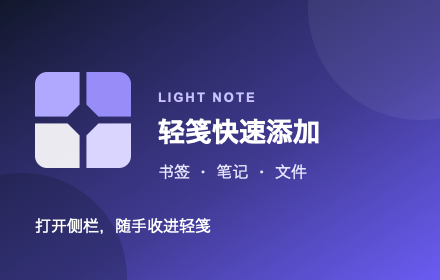
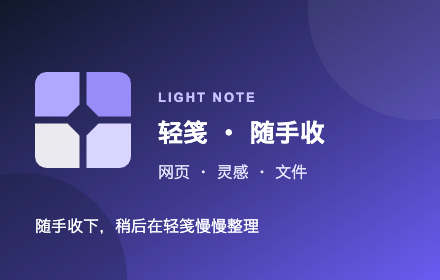
fix: 统一随手收扩展品牌名称

diff --git a/apps/web/src/extension/manifest.contract.test.ts b/apps/web/src/extension/manifest.contract.test.ts
@@ -5,6 +5,9 @@ import { describe, expect, it } from 'vitest';
 
 const readSource = (path: string) => readFileSync(resolve(process.cwd(), path), 'utf8');
 const manifest = JSON.parse(readSource('extension/manifest.json'));
+const zhManifestMessages = JSON.parse(readSource('extension/_locales/zh_CN/messages.json'));
+const enManifestMessages = JSON.parse(readSource('extension/_locales/en/messages.json'));
+const sidepanelSource = readSource('extension/sidepanel.html');
 const serviceWorkerSource = readSource('src/extension/service-worker.ts');
 const captureSource = readSource('src/extension/capture.ts');
 const appSource = readSource('src/extension/ExtensionApp.vue');
@@ -20,6 +23,12 @@ const operationIdempotencySource = readSource('src/extension/operationIdempotenc
 const pageTextImportSource = readSource('src/extension/pageTextImport.ts');
 const viteConfigSource = readSource('vite.extension.config.ts');
 const stylesSource = readSource('src/extension/styles.less');
+const zhLocaleSource = readSource('src/i18n/locales/zh-CN.ts');
+const enLocaleSource = readSource('src/i18n/locales/en-US.ts');
+const privacySource = readSource('public/legal/browser-extension-privacy.html');
+const storeListingSource = readSource('../../docs/browser-extension-store-listing.md');
+const storePromoSource = readSource('store-assets/chrome/promo-small-440x280.svg');
+const storeScreenshotBrandSource = readSource('store-assets/chrome/screenshot-brand-panel.svg');
 
 function extensionIdFromPublicKey(publicKey: string): string {
   const digest = crypto.createHash('sha256').update(Buffer.from(publicKey, 'base64')).digest().subarray(0, 16);
@@ -29,6 +38,31 @@ function extensionIdFromPublicKey(publicKey: string): string {
 }
 
 describe('浏览器插件 Manifest 与隐私边界', () => {
+  it('扩展包、运行界面、授权、隐私与商店素材统一使用正式中英文品牌', () => {
+    expect(manifest.name).toBe('__MSG_extensionName__');
+    expect(manifest.short_name).toBe('__MSG_extensionShortName__');
+    expect(manifest.description).toBe('__MSG_extensionDescription__');
+    expect(manifest.default_locale).toBe('zh_CN');
+    expect(manifest.action.default_title).toBe('__MSG_extensionActionTitle__');
+    expect(zhManifestMessages.extensionName.message).toBe('轻笺 · 随手收');
+    expect(zhManifestMessages.extensionShortName.message).toBe('轻笺');
+    expect(zhManifestMessages.extensionDescription.message).toBe(
+      '随手收下网页、灵感和文件，稍后在轻笺慢慢整理。',
+    );
+    expect(enManifestMessages.extensionName.message).toBe('Light Note · Quick Capture');
+    expect(enManifestMessages.extensionShortName.message).toBe('Light Note');
+    expect(sidepanelSource).toContain('<title>轻笺 · 随手收</title>');
+    expect(zhLocaleSource).toContain("title: '授权“轻笺 · 随手收”'");
+    expect(enLocaleSource).toContain("title: 'Authorize Light Note · Quick Capture'");
+    expect(privacySource).toContain('适用产品：轻笺 · 随手收');
+    expect(storeListingSource).toContain('中文名：`轻笺 · 随手收`');
+    expect(storeListingSource).toContain('英文名：`Light Note · Quick Capture`');
+    expect(storePromoSource).toContain('轻笺 · 随手收');
+    expect(storeScreenshotBrandSource).toContain('轻笺 · 随手收');
+    expect(viteConfigSource).toContain("'_locales/zh_CN/messages.json'");
+    expect(viteConfigSource).toContain("'_locales/en/messages.json'");
+  });
+
   it('使用 MV3 原生 Side Panel，并把网页正文访问声明为按站点可选权限', () => {
     expect(manifest.manifest_version).toBe(3);
     expect(manifest.permissions).toEqual(['sidePanel', 'tabs', 'activeTab', 'scripting', 'storage', 'identity']);

diff --git a/apps/web/src/i18n/locales/zh-CN.ts b/apps/web/src/i18n/locales/zh-CN.ts
@@ -9382,7 +9382,7 @@ export default {
     collapseDirectory: '收起目录',
   },
   browserExtension: {
-    title: '快速添加',
+    title: '随手收',
     logoAlt: '轻笺',
     back: '返回入口',
     toggleTheme: '切换浅色或深色主题',
@@ -9390,7 +9390,7 @@ export default {
     notSignedIn: '尚未登录',
     signedIn: '已登录轻笺',
     home: {
-      eyebrow: 'LIGHT NOTE COLLECTOR',
+      eyebrow: 'LIGHT NOTE · QUICK CAPTURE',
       title: '这次想收进什么？',
       sessionReady: '插件设备会话已就绪',
       loginWhenSaving: '登录后即可保存并同步到轻笺',
@@ -9504,7 +9504,7 @@ export default {
     },
     login: {
       eyebrow: 'DEVICE SESSION',
-      title: '登录轻笺插件',
+      title: '登录“轻笺 · 随手收”',
       description: '草稿会留在当前侧栏。密码只用于本次登录，不会保存在插件里。',
       action: '登录',
       headerAction: '尚未登录 · 点击登录',
@@ -9515,7 +9515,7 @@ export default {
       websiteHint: '如果网站已有登录状态可直接授权；否则可在网站选择邮箱、注册或 GitHub。',
       required: '请输入邮箱和密码',
       failed: '登录失败，请重试',
-      success: '插件登录成功',
+      success: '“随手收”登录成功',
       loggedOut: '已退出插件设备',
       expired: '插件登录已过期，请重新登录；当前草稿仍保留。',
     },
@@ -9533,11 +9533,11 @@ export default {
   },
   extensionAuthorize: {
     logoAlt: '轻笺',
-    title: '授权浏览器插件',
+    title: '授权“轻笺 · 随手收”',
     loading: '正在确认轻笺登录状态',
     invalidTitle: '授权请求无效',
     invalidDescription: '请求缺少必要的安全参数。请关闭此窗口，回到插件后重新发起登录。',
-    requestTitle: '允许轻笺插件连接此账号？',
+    requestTitle: '允许“轻笺 · 随手收”连接此账号？',
     requestDescription: '授权后，插件可以代表当前账号创建你主动提交的内容。它不会自动读取浏览历史。',
     permissionBookmark: '保存你主动收集的网页为书签',
     permissionNote: '创建你在插件中输入的笔记',
@@ -9545,7 +9545,7 @@ export default {
     signedInAs: '当前账号：{name}',
     needLogin: '请先登录轻笺，再继续授权',
     accountFallback: '轻笺用户',
-    authorize: '允许并返回插件',
+    authorize: '允许并返回“随手收”',
     login: '登录或注册',
     cancel: '取消',
     footnote: '授权码仅可使用一次，5 分钟后自动失效。你可以随时在账号会话管理中退出插件设备。',

diff --git a/apps/web/src/i18n/locales/en-US.ts b/apps/web/src/i18n/locales/en-US.ts
@@ -9756,7 +9756,7 @@ export default {
     collapseDirectory: 'Collapse directory',
   },
   browserExtension: {
-    title: 'Quick Add',
+    title: 'Quick Capture',
     logoAlt: 'LightNote',
     back: 'Back to start',
     toggleTheme: 'Toggle light or dark theme',
@@ -9764,7 +9764,7 @@ export default {
     notSignedIn: 'Not signed in',
     signedIn: 'Signed in to LightNote',
     home: {
-      eyebrow: 'LIGHT NOTE COLLECTOR',
+      eyebrow: 'LIGHT NOTE · QUICK CAPTURE',
       title: 'What are you saving?',
       sessionReady: 'Extension device session is ready',
       loginWhenSaving: 'Sign in to save and sync with LightNote',
@@ -9883,7 +9883,7 @@ export default {
     },
     login: {
       eyebrow: 'DEVICE SESSION',
-      title: 'Sign in to the extension',
+      title: 'Sign in to Light Note · Quick Capture',
       description:
         'Your draft stays in this side panel. The password is used only for this sign-in and is never stored by the extension.',
       action: 'Sign in',
@@ -9896,7 +9896,7 @@ export default {
         'Authorize immediately if the website is already signed in, or choose email, registration, or GitHub there.',
       required: 'Enter your email and password',
       failed: 'Sign-in failed. Try again.',
-      success: 'Extension signed in',
+      success: 'Quick Capture signed in',
       loggedOut: 'Extension device signed out',
       expired: 'Extension sign-in expired. Sign in again; your current draft is preserved.',
     },
@@ -9914,12 +9914,12 @@ export default {
   },
   extensionAuthorize: {
     logoAlt: 'LightNote',
-    title: 'Authorize browser extension',
+    title: 'Authorize Light Note · Quick Capture',
     loading: 'Checking your LightNote sign-in',
     invalidTitle: 'Invalid authorization request',
     invalidDescription:
       'Required security parameters are missing. Close this window and start sign-in again in the extension.',
-    requestTitle: 'Connect the LightNote extension?',
+    requestTitle: 'Connect Light Note · Quick Capture?',
     requestDescription:
       'Once authorized, the extension can create only the content you explicitly submit. It does not read browsing history.',
     permissionBookmark: 'Save pages you choose as bookmarks',
@@ -9928,7 +9928,7 @@ export default {
     signedInAs: 'Signed in as {name}',
     needLogin: 'Sign in to LightNote before authorizing',
     accountFallback: 'LightNote user',
-    authorize: 'Allow and return to extension',
+    authorize: 'Allow and return to Quick Capture',
     login: 'Sign in or register',
     cancel: 'Cancel',
     footnote:

diff --git a/apps/web/public/legal/browser-extension-privacy.html b/apps/web/public/legal/browser-extension-privacy.html
@@ -4,16 +4,16 @@
     <meta charset="UTF-8" />
     <meta name="viewport" content="width=device-width, initial-scale=1, viewport-fit=cover" />
     <meta name="color-scheme" content="light" />
-    <title>轻笺浏览器扩展隐私说明</title>
+    <title>轻笺 · 随手收隐私说明</title>
     <link rel="stylesheet" href="legal.css" />
   </head>
   <body>
     <main class="legal-page">
       <header class="legal-header">
         <p class="legal-brand">LIGHT NOTE · 轻笺</p>
-        <h1>浏览器扩展隐私说明</h1>
+        <h1>轻笺 · 随手收隐私说明</h1>
         <div class="legal-meta">
-          <span>适用产品：轻笺快速添加</span>
+          <span>适用产品：轻笺 · 随手收</span>
           <span>文档版本：2026-08-27</span>
           <span>生效日期：2026 年 8 月 27 日</span>
         </div>
@@ -22,7 +22,7 @@
       <section class="legal-section">
         <h2>1. 适用范围与单一用途</h2>
         <p>
-          本说明专门适用于“轻笺快速添加”Chrome / Edge 浏览器扩展。扩展的单一用途是：让用户在浏览网页时，
+          本说明专门适用于“轻笺 · 随手收”Chrome / Edge 浏览器扩展。扩展的单一用途是：让用户在浏览网页时，
           主动把当前页面书签、自己输入的笔记和自己选择的文件保存并同步到轻笺账号。
         </p>
         <p>

diff --git a/apps/web/vite.extension.config.ts b/apps/web/vite.extension.config.ts
@@ -12,6 +12,8 @@ function extensionStaticAssets(): Plugin {
     ['public/favicon-32x32.png', 'icons/icon-32.png'],
     ['extension/icons/icon-48.png', 'icons/icon-48.png'],
     ['extension/icons/icon-128.png', 'icons/icon-128.png'],
+    ['extension/_locales/zh_CN/messages.json', '_locales/zh_CN/messages.json'],
+    ['extension/_locales/en/messages.json', '_locales/en/messages.json'],
     ['public/icon-192.png', 'icons/icon-192.png'],
     ['public/icon-512.png', 'icons/icon-512.png'],
   ] as const;

diff --git a/apps/web/src/config/siteCompliance.test.ts b/apps/web/src/config/siteCompliance.test.ts
@@ -49,6 +49,7 @@ describe('站点备案名称展示', () => {
 
   it('浏览器扩展隐私说明覆盖商店披露、权限边界与有限用途承诺', () => {
     const html = readPublicFile('legal/browser-extension-privacy.html');
+    expect(html).toContain('适用产品：轻笺 · 随手收');
     expect(html).toContain('当前标签页网址、标题和选中文本');
     expect(html).toContain('网页可见文字');
     expect(html).toContain('不会遍历或保存浏览历史');

diff --git a/apps/web/src/extension/storePackageManifest.test.ts b/apps/web/src/extension/storePackageManifest.test.ts
@@ -16,6 +16,7 @@ describe('Chrome Web Store manifest packaging', () => {
     expect(sourceManifest.key).toBeTruthy();
     expect(storeManifest).not.toHaveProperty('key');
     expect(storeManifest.version).toBe(sourceManifest.version);
+    expect(storeManifest.default_locale).toBe(sourceManifest.default_locale);
     expect(storeManifest.permissions).toEqual(sourceManifest.permissions);
     expect(storeManifest.host_permissions).toEqual(sourceManifest.host_permissions);
   });

diff --git a/apps/web/extension/sidepanel.html b/apps/web/extension/sidepanel.html
@@ -5,7 +5,7 @@
     <meta name="viewport" content="width=device-width, initial-scale=1.0" />
     <meta name="color-scheme" content="only light" />
     <meta name="theme-color" content="#ffffff" />
-    <title>轻笺快速添加</title>
+    <title>轻笺 · 随手收</title>
   </head>
   <body>
     <div id="app"></div>

diff --git a/docs/pitfalls.md b/docs/pitfalls.md
@@ -3611,3 +3611,11 @@ Markdown 从普通文本框迁移到 CodeMirror 后，仍沿用父组件 `@keydo
 - **防回归约束：** `apps/web/extension/manifest.json` 与 `dist-extension/manifest.json` 继续保留公开 build key，禁止把私钥写入仓库；只有 `package:extension` 在写入 ZIP 时生成无根级 `key` 的商店 Manifest。禁止维护第二份手写商店 Manifest，也禁止人工解压改包，避免权限、版本和 CSP 漂移。上传前必须同时断言解压目录仍能推导稳定开发 ID、ZIP 内 Manifest 不含 `key`，并重新校验 SHA-256。
 - **验证方法：** 纯函数测试锁定打包净化只移除根级 `key`、不修改源对象且保留版本、权限和 Host；执行 `package:extension` 后分别读取 `dist-extension/manifest.json` 与 ZIP 内 `manifest.json`，前者必须含公开 key，后者必须不含，并通过校验文件验证新 ZIP。Chrome Web Store 首次上传不再出现 key 字段错误。
 - **相关代码：** `apps/web/extension/manifest.json`、`apps/web/scripts/package-extension.mjs`、`apps/web/scripts/package-extension-manifest.mjs`、`apps/web/src/extension/storePackageManifest.test.ts`、`docs/browser-extension.md`。
+
+### LN-PIT-183：扩展正式名称不能只在商店后台或单个文案中修改
+
+- **现象：** 产品已确定为“轻笺 · 随手收”，Chrome Web Store 上传后却仍从软件包显示旧名“轻笺快速添加”；即使在后台手工改商店标题，安装页、工具栏、侧栏、网站授权页、隐私说明和宣传图仍可能各用一套名称。
+- **根因：** Manifest、浏览器本地化消息、Vue i18n、静态 HTML、公开法律页、商店资料和图片源文件分别维护品牌文本，原先没有跨载体契约。商店会优先读取软件包 Manifest 的名称与摘要，后台文案不能覆盖包内事实。
+- **防回归约束：** 正式中文名固定为“轻笺 · 随手收”，短名为“轻笺”，英文名为“Light Note · Quick Capture”，中文宣传语为“随手收下网页、灵感和文件，稍后在轻笺慢慢整理。”Manifest 使用 `_locales` 消息并以 `zh_CN` 为默认语言；运行界面、网站授权页、隐私页、商店文案和宣传 SVG 必须由合约测试逐项校验。品牌变更时同时递增扩展版本、重新渲染 PNG/商店截图并重新上传包，禁止只改后台字段或直接编辑生成图片。
+- **验证方法：** Manifest 合约测试核对中英文消息、短名、宣传语、侧栏标题、授权 i18n、隐私页、商店资料、宣传图源和构建复制清单；执行 `package:extension` 后确认 ZIP 带 `_locales/zh_CN` 与 `_locales/en`、根 Manifest 无 `key` 且版本递增。视觉验收 440×280 宣传图与 1280×800 三张截图，确保新名称无截断、重叠或字体回退；Chrome Web Store 替换软件包后，“软件包中的标题”必须显示“轻笺 · 随手收”。
+- **相关代码：** `apps/web/extension/manifest.json`、`apps/web/extension/_locales/`、`apps/web/src/i18n/locales/`、`apps/web/public/legal/browser-extension-privacy.html`、`apps/web/store-assets/chrome/`、`apps/web/src/extension/manifest.contract.test.ts`。

diff --git a/docs/browser-extension-store-listing.md b/docs/browser-extension-store-listing.md
@@ -1,11 +1,13 @@
-# 轻笺快速添加 · Chrome Web Store 发布资料
+# 轻笺 · 随手收 · Chrome Web Store 发布资料
 
 本文件是 Chrome Web Store 首次发布和后续更新的唯一文案清单。上传前必须重新执行
 `pnpm --filter web package:extension`，不要复用版本号相同但构建时间更早的 ZIP。
 
 ## 商店详情
 
-- 名称：`轻笺快速添加`
+- 中文名：`轻笺 · 随手收`
+- 英文名：`Light Note · Quick Capture`
+- 短名称：`轻笺`
 - 默认语言：`中文（简体）`
 - 类别：`效率工具`
 - 官方网站：`https://boluo66.top`
@@ -14,11 +16,11 @@
 
 ### 摘要
 
-把当前网页、随手笔记和本地文件快速保存到轻笺，支持待整理、AI 书签补全与 Markdown。
+随手收下网页、灵感和文件，稍后在轻笺慢慢整理。
 
 ### 详细说明
 
-轻笺快速添加是轻笺的官方浏览器扩展。它把收集入口放在 Chrome 侧边栏，让你不必离开当前网页，就能把想留下的内容同步到轻笺账户。
+“轻笺 · 随手收”是轻笺的官方浏览器扩展。它把收集入口放在 Chrome 侧边栏，让你不必离开当前网页，就能把想留下的内容同步到轻笺账户。
 
 主要功能：
 
